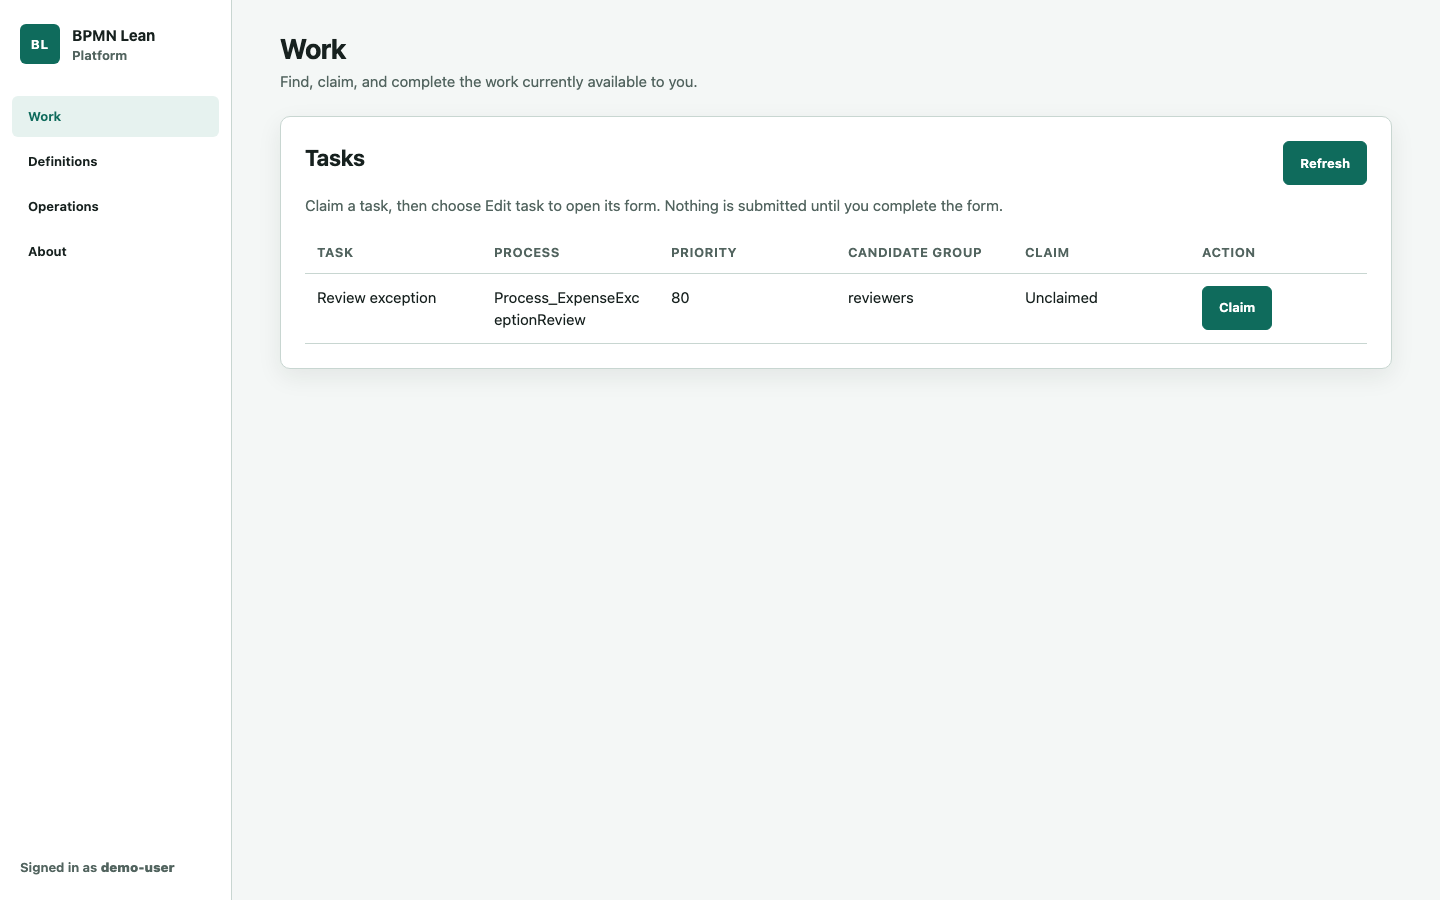
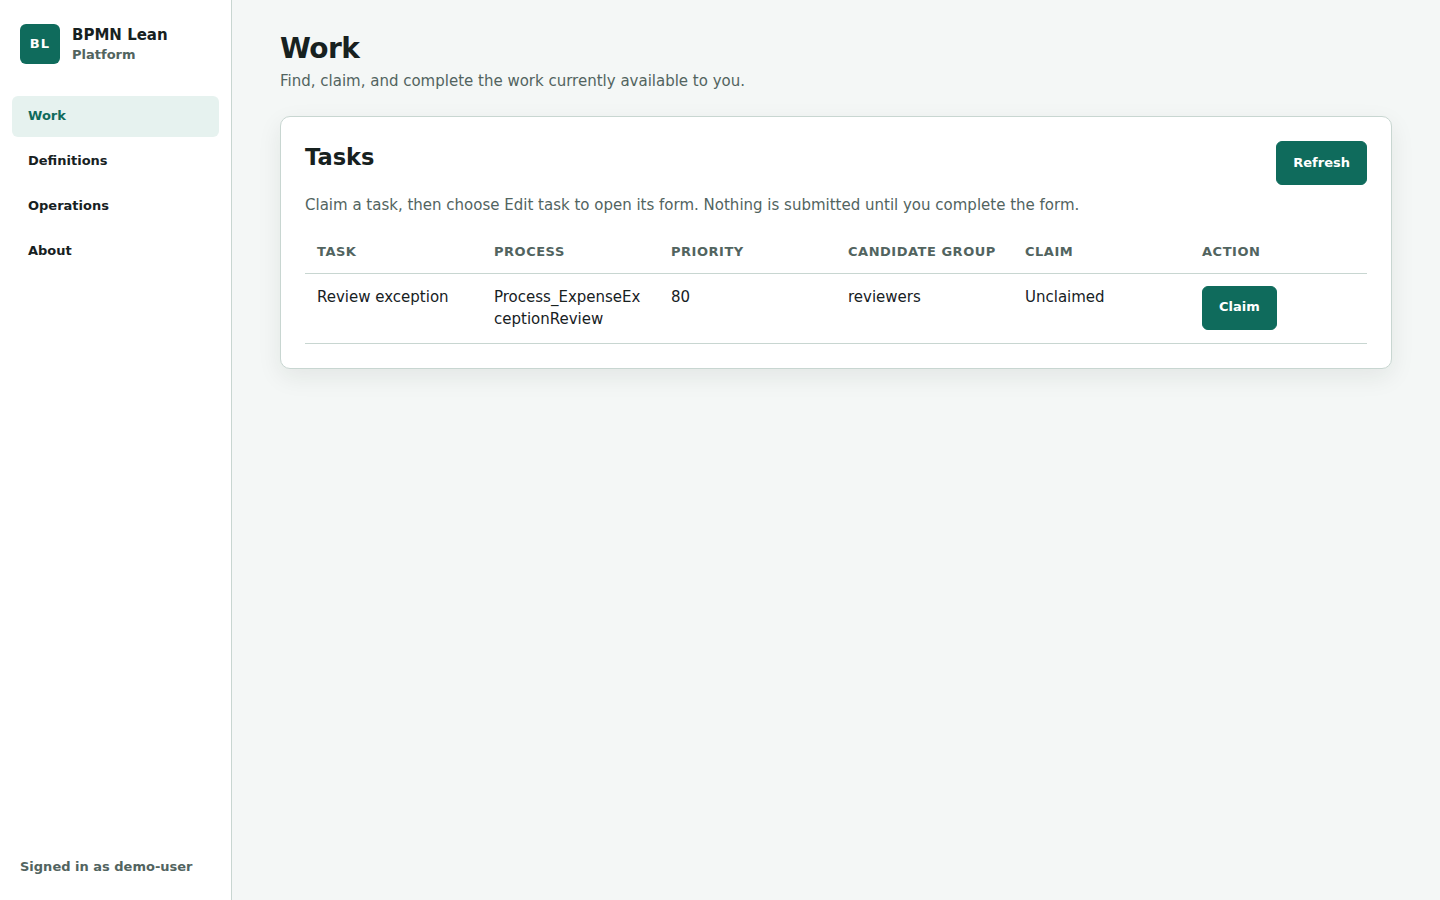
docs(walkthrough): refresh the browser walkthrough on the kernel engine and show how to evaluate the current kernel from source
The screenshots and History step described the pre-kernel UI of 2026-09-28; evaluation distribution 43518803826 captured them again at edaab9ad0. The published v0.2.0-rc.1 bundle runs the previous engine generation, so the README names the source-built stack as the current kernel's qualified evaluation distribution.

diff --git a/docs/BPM-PLATFORM-BROWSER-WALKTHROUGH.md b/docs/BPM-PLATFORM-BROWSER-WALKTHROUGH.md
@@ -78,7 +78,7 @@ Use this run of show when presenting the project rather than evaluating each wor
 
 ### Zero-build demo machine
 
-The recommended demo-machine path is the [RC evaluation bundle](https://github.com/mbackschat/bpmn-lean-experiment/releases/download/v0.2.0-rc.1/mue-evaluation-v0.2.0-rc.1.tar.gz) from the qualified prerelease. The bundle contains the Compose topology, database-role initialization, this guide and fallback images, three prepared interactive human-process definitions, additional retained presentation models, and an environment file that pins all four project images to their published OCI index digests. Each index contains `linux/amd64` and `linux/arm64`, carries the source commit and complete tracked-source-tree digest, and is published with BuildKit provenance and an SBOM. PostgreSQL and Temporal retain their separately pinned upstream digests. On macOS, use Docker Desktop with Linux containers or Rancher Desktop with dockerd (moby), select the matching Docker context, and verify `docker info` plus Docker Compose `2.24.4` or later before preparing the bundle.
+The recommended demo-machine path is the [RC evaluation bundle](https://github.com/mbackschat/bpmn-lean-experiment/releases/download/v0.2.0-rc.1/mue-evaluation-v0.2.0-rc.1.tar.gz) from the qualified prerelease. It runs the engine generation that preceded the current kernel; the current kernel is evaluated with the same stack built from a checkout ([README](../README.md#try-the-release-candidate-with-docker-or-rancher-desktop)). The bundle contains the Compose topology, database-role initialization, this guide and fallback images, three prepared interactive human-process definitions, additional retained presentation models, and an environment file that pins all four project images to their published OCI index digests. Each index contains `linux/amd64` and `linux/arm64`, carries the source commit and complete tracked-source-tree digest, and is published with BuildKit provenance and an SBOM. PostgreSQL and Temporal retain their separately pinned upstream digests. On macOS, use Docker Desktop with Linux containers or Rancher Desktop with dockerd (moby), select the matching Docker context, and verify `docker info` plus Docker Compose `2.24.4` or later before preparing the bundle.
 
 Download and unpack that artifact on a compatible Docker host. No repository checkout, Node, pnpm, compiler, or image build is used there. While online, prepare and prove one fresh isolated stack with:
 
@@ -254,7 +254,7 @@ For a validation exercise, select **Abort** before entering a required resolutio
 1. Open **Operations**, then **Process instances**.
 2. Search for the retained Process-instance ID and choose **View details**.
 3. Confirm status **completed**.
-4. Open **History** and inspect the contiguous engine-published `completeUserTaskInstance` record for `ReviewException`.
+4. Open **History**: the **Sequence Flow arrival** record at `ReviewException` opens the task, and the task completion is the one **Command** record after it; an input names no element of its own.
 
 Semantic History is published by the engine. Product 2 never reconstructs it from Temporal Event History or state differences.
 
@@ -328,7 +328,7 @@ Screenshot refresh is not part of ordinary commit CI and performs no pixel compa
 
 ## Screenshot capture record
 
-Refreshed on 2026-09-28 from the UI committed at `ed6e0cc6` with the subsequent stable-router security correction, using Chromium at 1440 × 900, English locale, UTC and reduced motion. Every screenshot was captured from the public UI with real starts, task actions, metrics and incident outcomes; no requests were intercepted or results fabricated.
+Refreshed on 2026-11-13 from the UI at `edaab9ad0` by the [evaluation distribution run 43518803826](https://github.com/mbackschat/bpmn-lean-experiment/actions/runs/43518803826), using Chromium at 1440 × 900, English locale, UTC and reduced motion. The previous capture (2026-09-28, UI `ed6e0cc6` with the subsequent stable-router security correction) stays in the repository history. Every screenshot was captured from the public UI with real starts, task actions, metrics and incident outcomes; no requests were intercepted or results fabricated.
 
 The capture used freshly built production containers for the API, recovery worker and BPMN worker, with fresh isolated PostgreSQL 18 and Temporal services. The final public-browser journey passed, including retained-command resolution before leaving an incident. Task-owned containers and volumes were removed afterwards; reusable images were retained. This establishes a current container build and documentation capture, not a new semantic-conformance or production-capacity claim.
 

diff --git a/README.md b/README.md
@@ -31,6 +31,15 @@ The last command downloads the published images, starts the stack, and prepares 
 
 The [browser walkthrough](docs/BPM-PLATFORM-BROWSER-WALKTHROUGH.md#zero-build-demo-machine) covers the full journey and evaluation limits. From the same directory, use `./deploy/evaluation/demo stop` when finished and `./deploy/evaluation/demo start` to resume later.
 
+**🧱 Evaluate the current kernel.** The qualified evaluation distribution of the current kernel is the same stack built from a repository checkout; no bundle of it is published yet ([decision](docs/kernel/ARCHITECTURE-SPEC.md#owner-decisions-on-the-path)). From the checkout, with Docker Compose only, run these commands and open `http://localhost:3000/`; `docker compose down --volumes` removes the stack and its data:
+
+```sh
+docker compose build
+docker compose up --no-build --wait temporal
+docker compose run --rm --no-deps bpmn-worker initialize-fresh-namespace --retention-seconds 86400
+docker compose up --no-build --wait
+```
+
 ## Why this project exists
 
 Moving BPMN processes from an engine such as CIB Seven to Temporal raises a question: **will the processes still behave as their BPMN models specify?** Parallel work, messages, timers, and cancellation must keep their meaning even when the underlying runtime changes.
